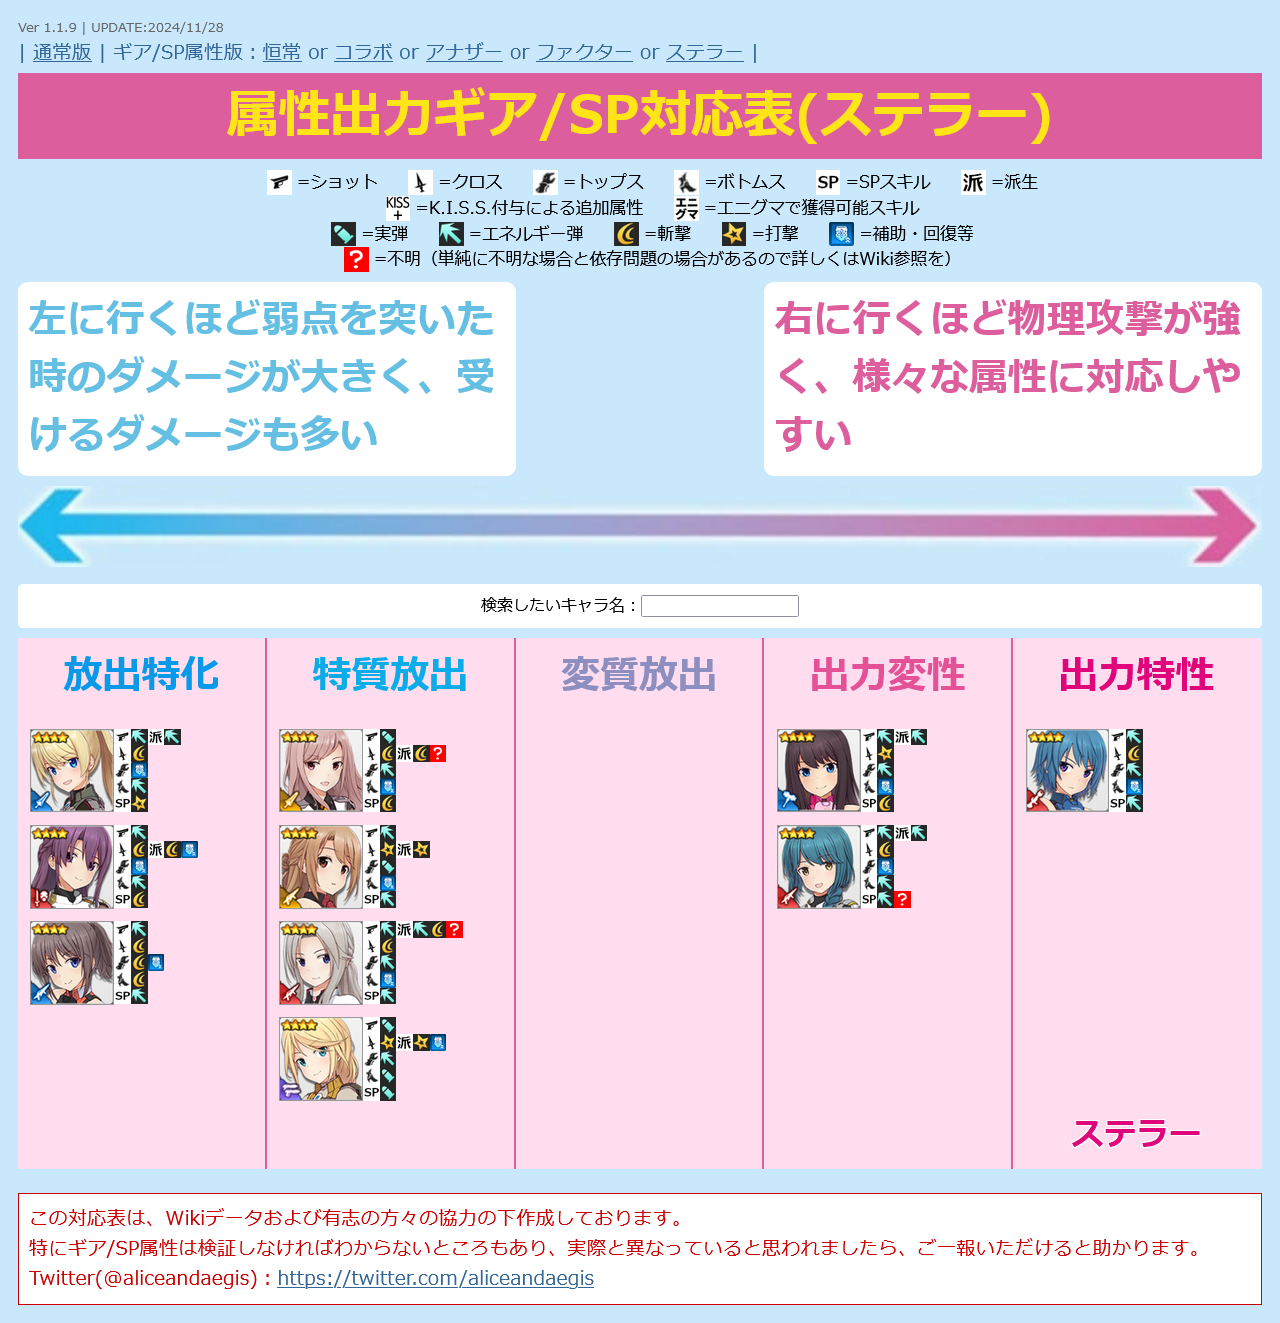
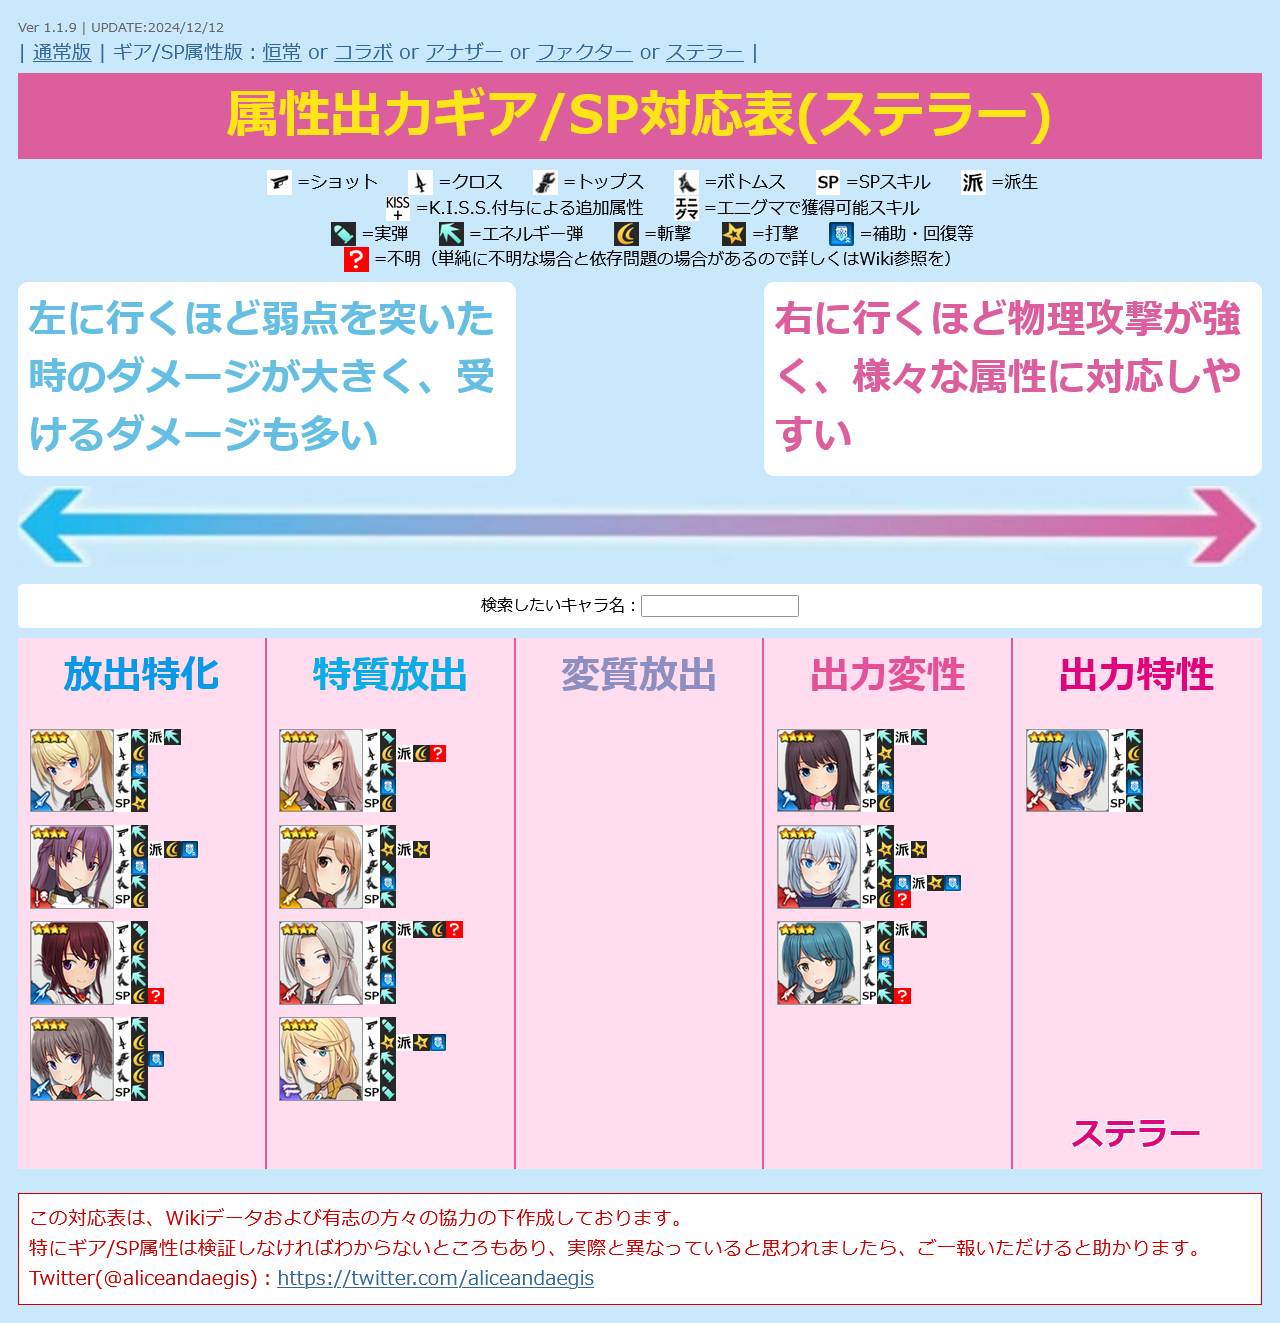
UPDATE charadata
・ステラー 王 紅花 / ストレングスを追加
・ステラー ニーナ・カリーニナ / ハングドマンを追加

Changed region(s): [[0.5938, 0.6198, 0.75, 0.7748], [0.0, 0.6818, 0.125, 0.8367]]

diff --git a/alice.html b/alice.html
@@ -12,7 +12,7 @@
   <script>
 
 /* 更新情報 必要に応じて書き換えてください */
-  var version = "Ver 1.1.9 | UPDATE:2024/11/28";
+  var version = "Ver 1.1.9 | UPDATE:2024/12/12";
 
 
 /*
@@ -1018,6 +1018,20 @@
       "category": "10"
     },
     {
+      "id": "23",
+      "type": "1",
+      "src": "stellar-hongfa.png",
+      "name": "王 紅花 / ストレングス",
+      "equip1": "1",
+      "equip2": "3",
+      "equip3": "2",
+      "equip4": "2",
+      "sp": "3?",
+      "attr": "4",
+      "link": "https://wikiwiki.jp/alicegear/%E7%8E%8B%E7%B4%85%E8%8A%B1/%E3%82%B9%E3%83%88%E3%83%AC%E3%83%B3%E3%82%B0%E3%82%B9",
+      "category": "12"
+    },
+    {
       "id": "24",
       "type": "3",
       "src": "normal-kanade.png",
@@ -1226,6 +1240,20 @@
       "attr": "4",
       "link": "https://wikiwiki.jp/alicegear/%E3%83%8B%E3%83%BC%E3%83%8A%E3%83%BB%E3%82%AB%E3%83%AA%E3%83%BC%E3%83%8B%E3%83%8A%E7%A0%B4%E8%BB%8D",
       "category": "10"
+    },
+    {
+      "id": "29",
+      "type": "4",
+      "src": "stellar-nina.png",
+      "name": "ニーナ・カリーニナ / ハングドマン",
+      "equip1": "2",
+      "equip2": "4/4",
+      "equip3": "2",
+      "equip4": "45/45",
+      "sp": "3?",
+      "attr": "3",
+      "link": "https://wikiwiki.jp/alicegear/%E3%83%8B%E3%83%BC%E3%83%8A%E3%83%BB%E3%82%AB%E3%83%AA%E3%83%BC%E3%83%8B%E3%83%8A/%E3%83%8F%E3%83%B3%E3%82%B0%E3%83%89%E3%83%9E%E3%83%B3",
+      "category": "12"
     },
     {
       "id": "30",
@@ -3043,11 +3071,11 @@
       "type": "2",
       "src": "normal-nadeshiko.png",
       "name": "各務原 なでしこ",
-      "equip1": "2?",
-      "equip2": "4?",
-      "equip3": "2?",
-      "equip4": "5?",
-      "sp": "5?",
+      "equip1": "2",
+      "equip2": "4",
+      "equip3": "2",
+      "equip4": "5",
+      "sp": "5",
       "attr": "1",
       "link": "https://wikiwiki.jp/alicegear/%E5%90%84%E5%8B%99%E5%8E%9F%E3%81%AA%E3%81%A7%E3%81%97%E3%81%93",
       "category": "99"
@@ -3057,11 +3085,11 @@
       "type": "4",
       "src": "normal-shimarin.png",
       "name": "志摩 リン",
-      "equip1": "2?",
-      "equip2": "3?",
-      "equip3": "5?",
-      "equip4": "2?",
-      "sp": "2?",
+      "equip1": "2",
+      "equip2": "4",
+      "equip3": "5",
+      "equip4": "1",
+      "sp": "2",
       "attr": "4",
       "link": "https://wikiwiki.jp/alicegear/%E5%BF%97%E6%91%A9%E3%83%AA%E3%83%B3",
       "category": "99"
